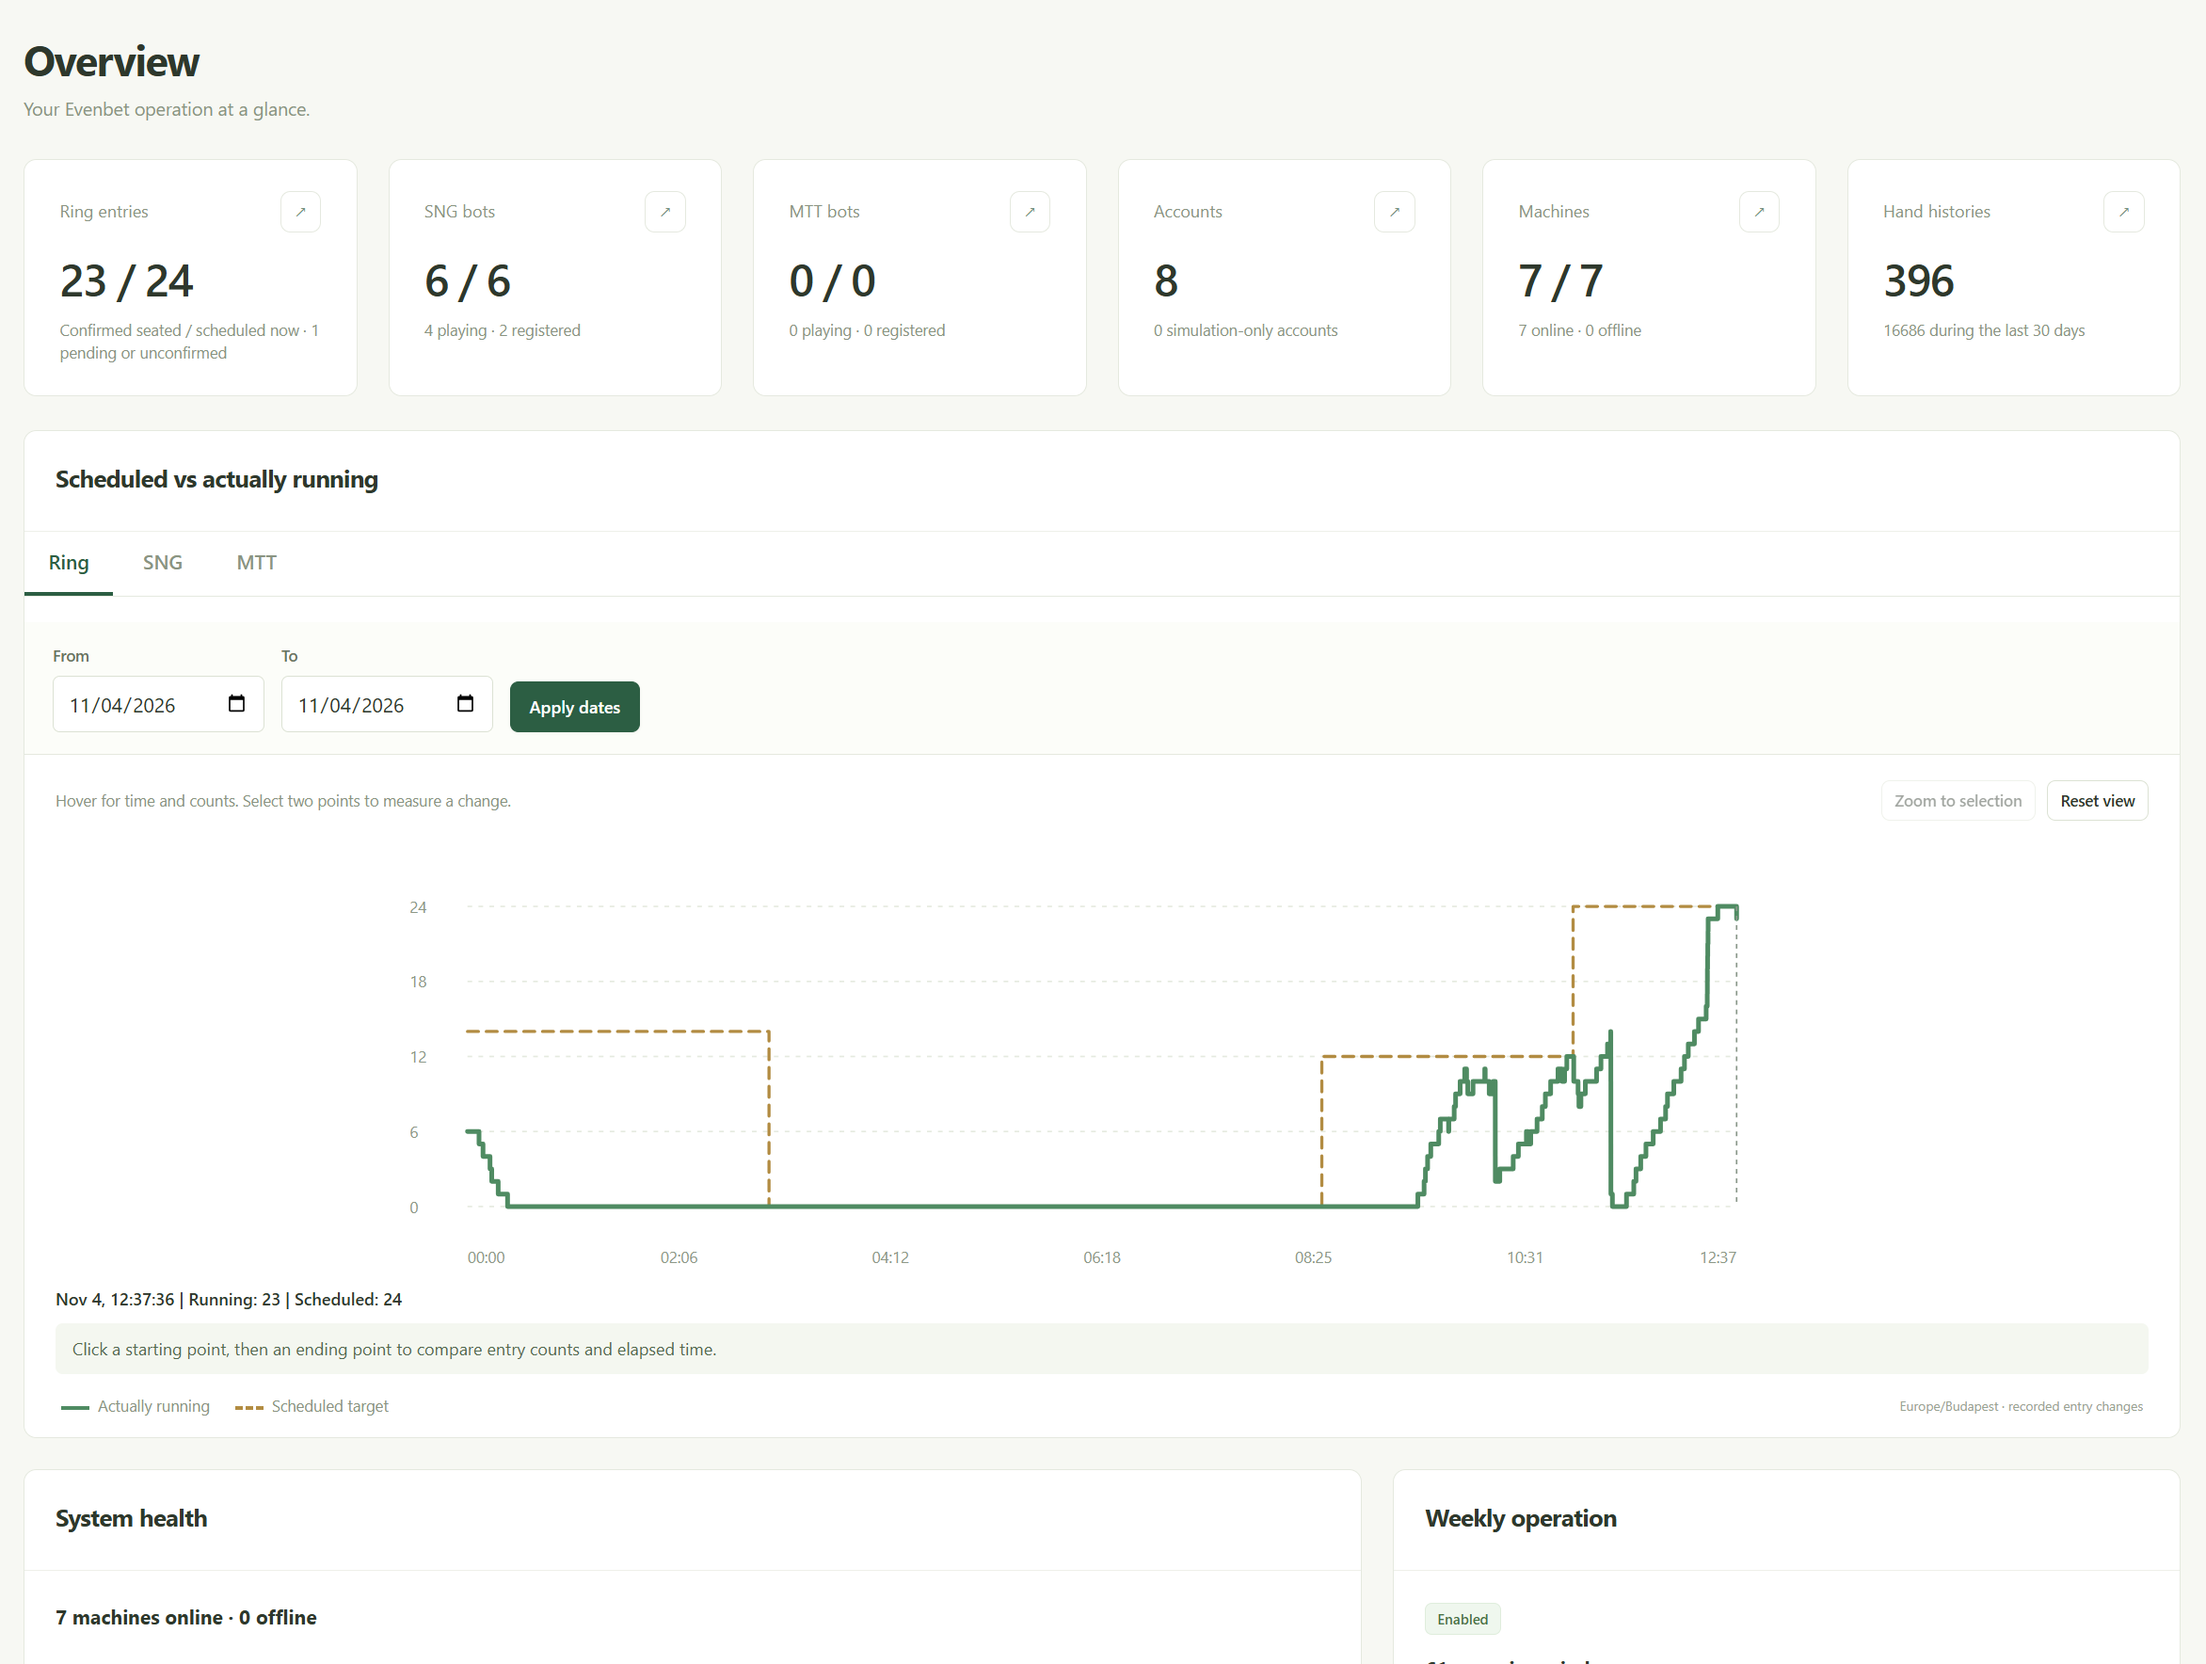
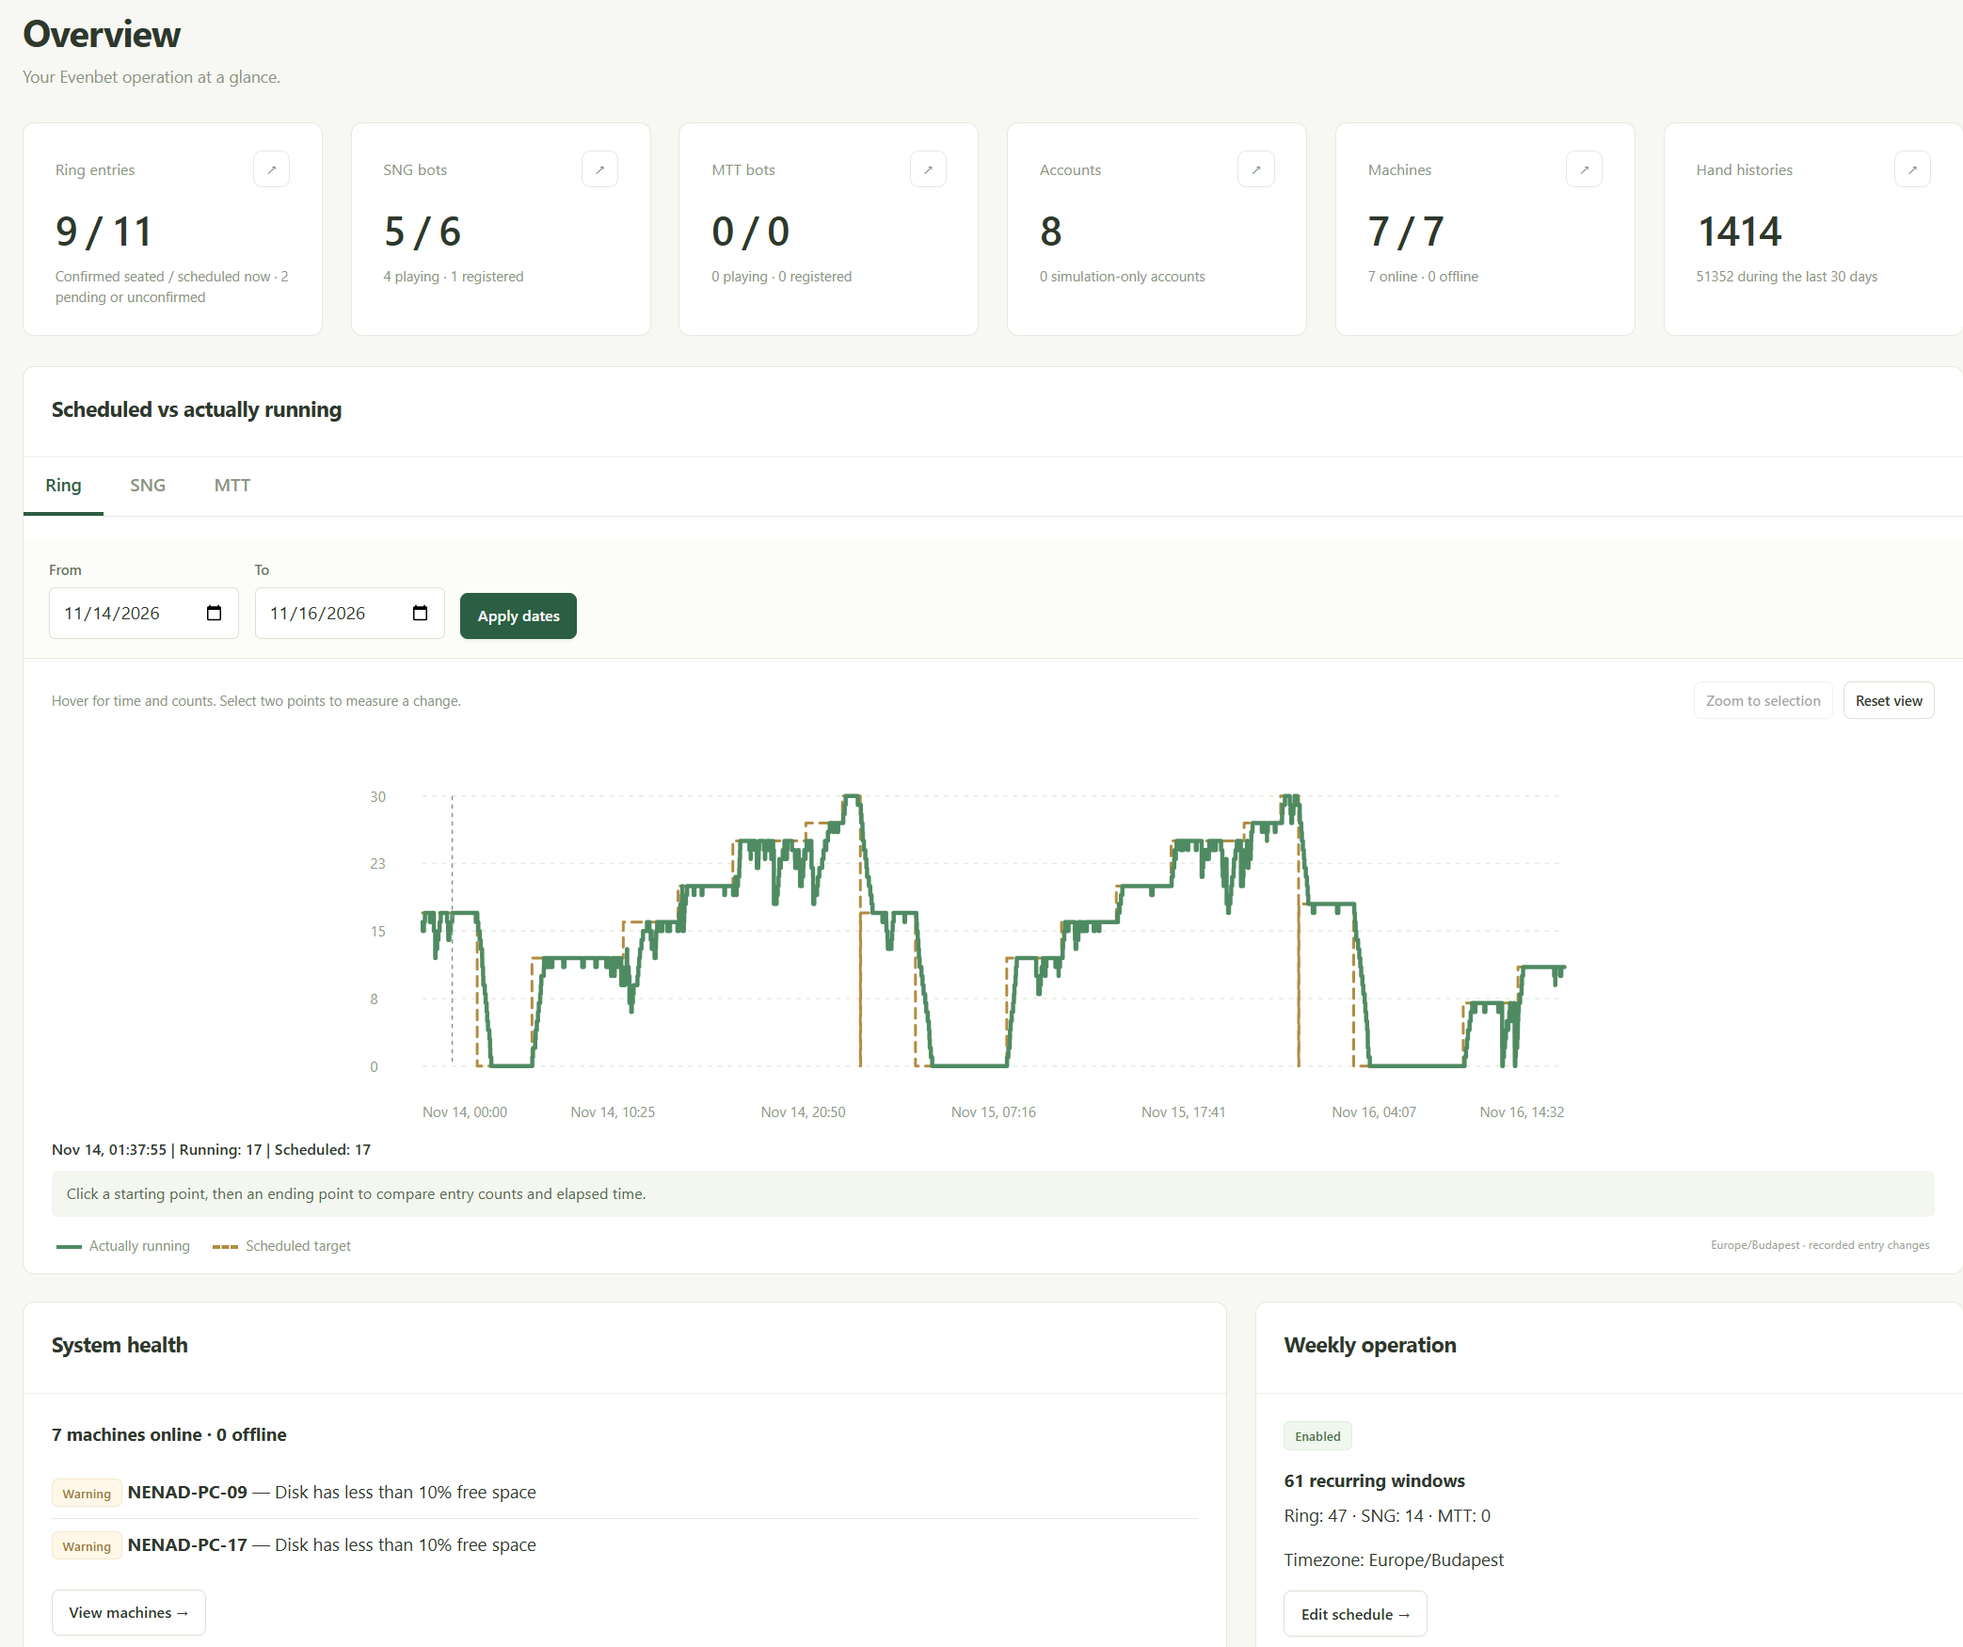
docs: add rolling-update screenshots, refresh overview and weekly schedule

diff --git a/docs/backoffice-user-guide.md b/docs/backoffice-user-guide.md
@@ -125,11 +125,11 @@ How many bots should play, hour by hour, for each day of the week, separately fo
 
 ![Weekly schedule: ring targets for each day](../images/weekly_schedule.png)
 
-1. Click **+ Add window**.
+1. Click **Add** above the chart.
 2. Pick the days (or **Every day**, **Weekdays**, **Weekend**), a start and end time, and the number of entries.
 3. Click **Add and save**. The window stays open so you can add more; click **Done** when finished.
 
-Select a block and click **Edit window** to change or remove it.
+Select a block and click **Edit** (or double-click it) to change it, or **Remove** to delete it.
 
 ![Adding a schedule window](../images/add_schedule_window.png)
 
@@ -146,6 +146,12 @@ Select a block and click **Edit window** to change or remove it.
 **Machines** lists the PCs running your bots: whether each is online, its CPU, memory and disk use, its running entries against its capacity, and the software versions. **Logs** collects a PC's logs for troubleshooting.
 
 **Updates** installs new software releases on your PCs. Choose a release and the PCs, then schedule it: normally a PC finishes its sessions first and then updates; **Update immediately** interrupts play straight away.
+
+![Scheduling an update](../images/machines_updates.png)
+
+**Past updates** shows how each PC's update went: its status, progress, and start and finish times.
+
+![Past updates](../images/past_updates.png)
 
 ### Adding a new PC
 

diff --git a/README.md b/README.md
@@ -30,6 +30,24 @@ PokerBackoffice -> Azure SQL <- ScheduleController (Azure Functions)
 
 ![Scheduled targets and observed activity in PokerBackoffice](images/overview.png)
 
+The overview compares the scheduled target with what actually ran, next to live counts and machine health.
+
+### Weekly schedule
+
+Operators set hour-by-hour targets for each day and game format. The cloud scheduler turns them into join and leave commands for the PCs.
+
+![Weekly schedule: ring targets for each day of the week](images/weekly_schedule.png)
+
+### Scheduled updates for the PC fleet
+
+A signed release is rolled out from the cloud to the selected PCs, now or at a set time. By default each PC finishes its sessions before installing.
+
+![Scheduling an update: release, start time, mode and PCs with their updater status](images/machines_updates.png)
+
+Each PC's updater reports its progress back, so the page shows every machine's status until it is healthy and its traffic has recovered.
+
+![Past updates: per-PC status, progress, start and finish times](images/past_updates.png)
+
 ## Setup and operations
 
 A full deployment requires configured infrastructure, platform accounts, and companion components. The following sections describe setup, validation, and operational requirements.

diff --git a/docs/rolling-updates.md b/docs/rolling-updates.md
@@ -2,6 +2,12 @@
 
 Operators order updates from the **Updates** page. Select a signed release, select PCs in the required order, choose **Wait for sessions to finish** or **Update immediately**, and optionally choose a start time in the site timezone. Update tasks also appear in **Tasks ? Update PC**.
 
+![Scheduling an update: release, start time, mode and PCs with their updater status](../images/machines_updates.png)
+
+**Past updates** lists each rollout with every PC's status, progress, start and finish time.
+
+![Past updates: per-PC status, progress, start and finish times](../images/past_updates.png)
+
 The scheduler serializes updates across the whole customer, including multiple sites. It downloads and verifies a release before pausing new joins. Other PCs continue their normal schedules throughout.
 
 Updater 1.0.20 shares successful status requests between its heartbeat and installation loops. Idle installations are checked every 15 seconds, with independent heartbeats during long downloads or startup. Diagnostic collectors use one file lock per PC and poll every 15 seconds; another collector takes over when the owner exits. The application rollout upgrades an older installed agent automatically.
